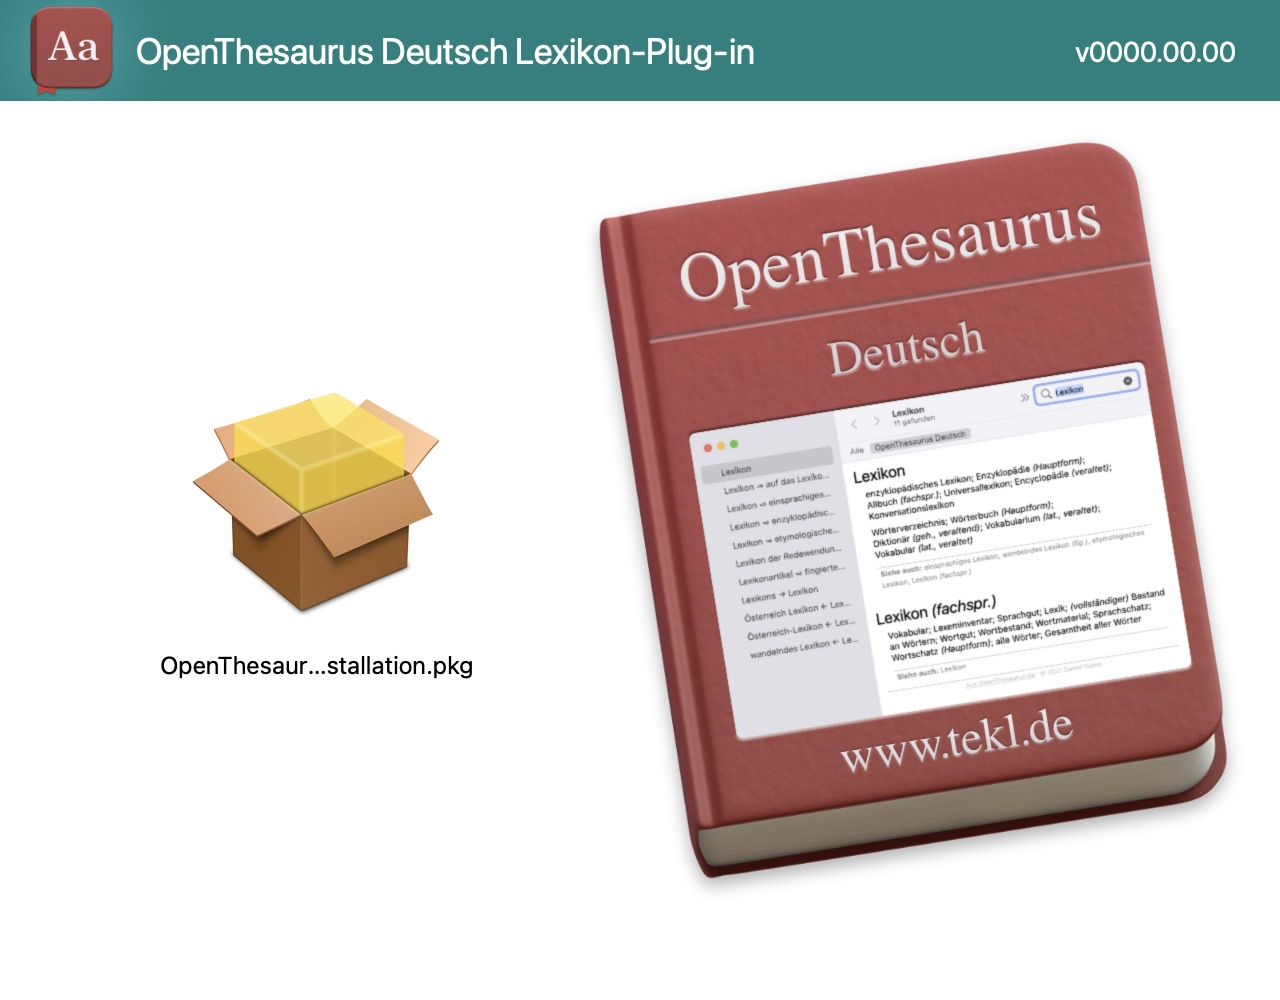
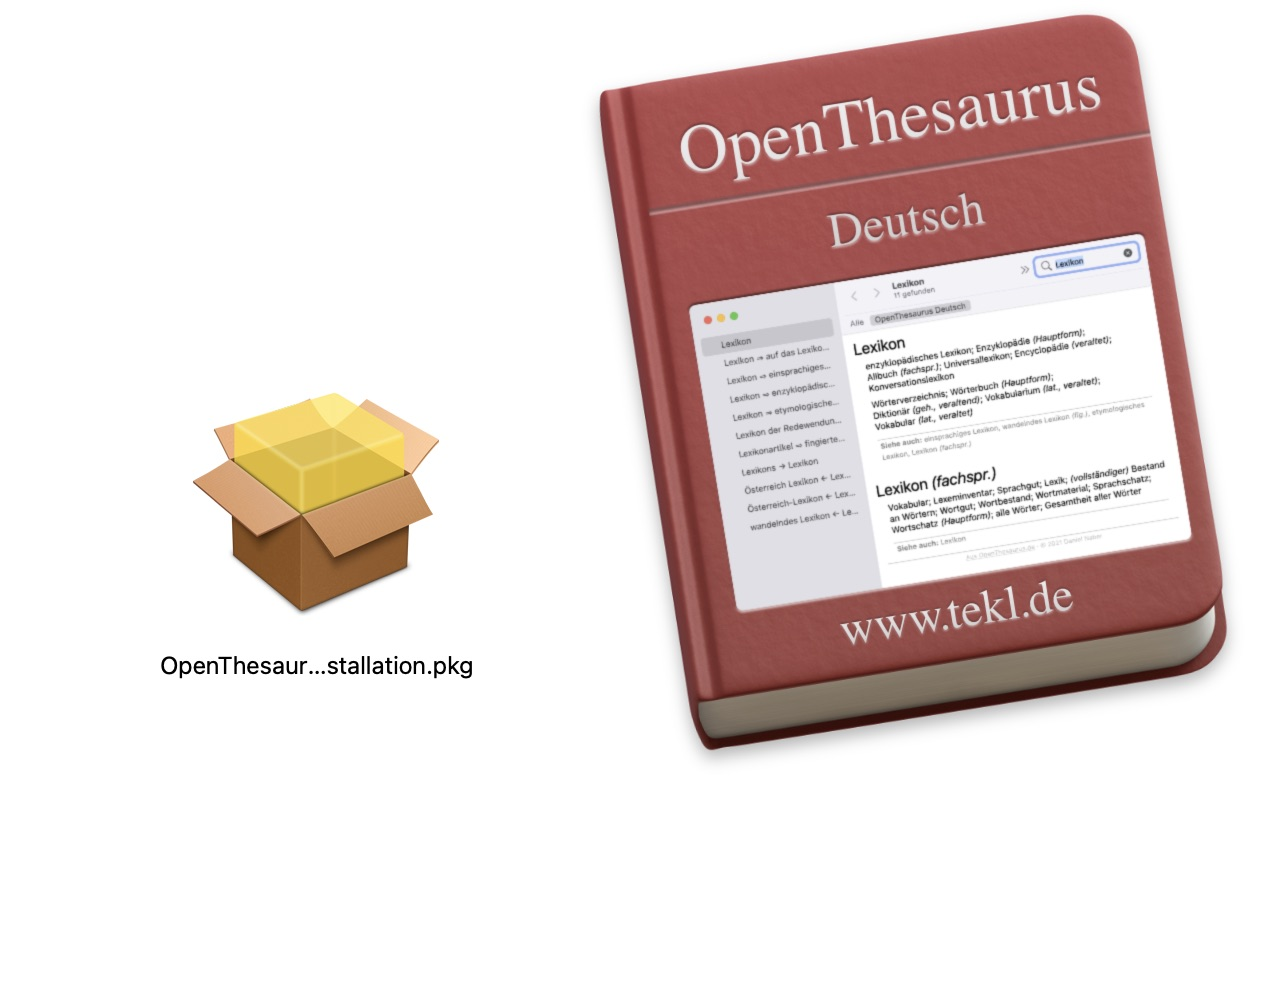
Updated to OpenThesaurus from 2024-05-12 mit 168769 Einträgen.

diff --git a/createxml.py b/createxml.py
@@ -520,8 +520,8 @@ plistFile = codecs.open('Info.plist', 'r', 'UTF-8')
 plist = plistFile.read()
 plist = re.sub(r"(?u)(<key>CFBundleVersion</key>\s+<string>)[^<]+(</string>)", "\\g<1>" + bundleVersion + "\\2", plist)
 plist = re.sub(r"(?u)(<key>CFBundleShortVersionString</key>\s+<string>)[^<]+(</string>)", "\\g<1>" + bundleVersion + "\\2", plist)
-plist = re.sub(u"© \d\d\d\d ", u"© " + datetime.datetime.today().strftime("%Y") + u" ", plist)
-plist = re.sub(u"© (\d\d\d\d)-\d\d\d\d ", u"© \\1-" + datetime.datetime.today().strftime("%Y") + u" ", plist)
+plist = re.sub(r"© \d\d\d\d ", u"© " + datetime.datetime.today().strftime("%Y") + u" ", plist)
+plist = re.sub(r"© (\d\d\d\d)-\d\d\d\d ", u"© \\1-" + datetime.datetime.today().strftime("%Y") + u" ", plist)
 plist = re.sub(r"version=\d\d\d\d\.\d+\.\d+(-[Ll]egacy)?(-beta)?", "version=" + bundleVersion, plist)
 plist = re.sub(r" v\d\d\d\d\.\d+\.\d+(-[Ll]egacy)?(-beta)?", " v" + bundleVersion, plist)
 plist = re.sub(r"<string>\d\d\.\d+</string>", "<string>" + osVersionMin + "</string>", plist)

diff --git a/README.md b/README.md
@@ -2,8 +2,8 @@
 
 ## OpenThesaurus Deutsch Dictionary Plugin
 
-_Version: 2023.12.28-Legacy - OS X 10.11 to macOS 14_  
-_Copyright © 2023 Wolfgang Kreutz and Daniel Naber_
+_Version: 2024.05.14 - OS X 10.11 to macOS 13_  
+_Copyright © 2024 Wolfgang Kreutz and Daniel Naber_
 
 ![Screenshot](images/screenshots/OpenThesaurus_Screen_1.png)
 

diff --git a/LIESMICH.md b/LIESMICH.md
@@ -2,8 +2,8 @@
 
 ## OpenThesaurus Deutsch Lexikon-Plug-in
 
-_Version: 2023.12.28-Legacy -OS X 10.11 bis macOS 14_  
-_Copyright © 2023 Wolfgang Kreutz und Daniel Naber_
+_Version: 2024.05.14 -OS X 10.11 bis macOS 14_  
+_Copyright © 2024 Wolfgang Kreutz und Daniel Naber_
 
 ![Screenshot](images/screenshots/OpenThesaurus_Screen_1.png)
 

diff --git a/CHANGELOG.md b/CHANGELOG.md
@@ -2,6 +2,12 @@
 
 Sorry, there’s no english changelog.
 
+## v2024.05.14
+
+### Geändert (Changed)
+
+- Datenbestand vom 12.05.2024 mit 168769 Einträgen.
+
 ## v2023.12.28
 
 ### Geändert (Changed)
